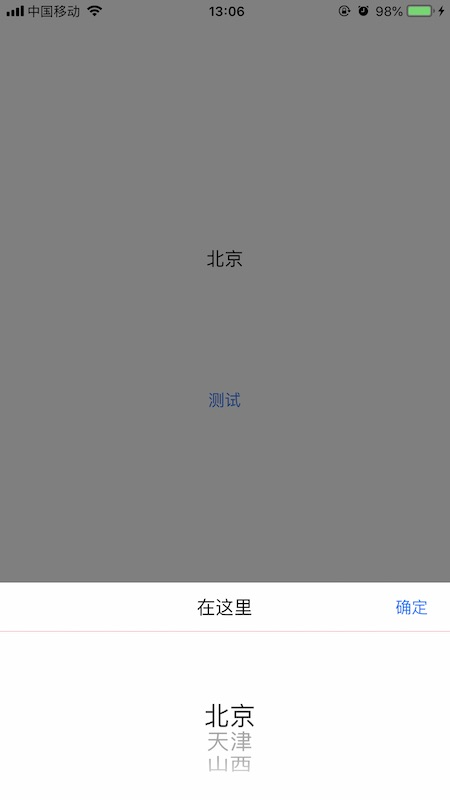
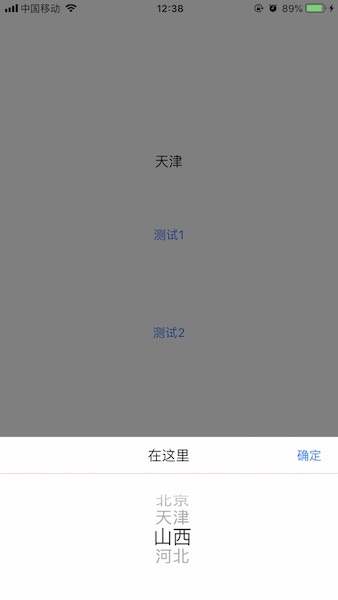
NBLPickerView支持非数组方式加载，数据量大且有规律时使用

diff --git a/NBLPickerView/Classes/NBLPickerView.m b/NBLPickerView/Classes/NBLPickerView.m
@@ -16,6 +16,9 @@
 @property (weak, nonatomic) IBOutlet UIPickerView *pickerView;
 
 @property (nonatomic, strong) NSArray<NSString *> *optionList;
+//
+@property (nonatomic, assign) NSUInteger optionCount;
+@property (nonatomic, strong) NSString *(^blockOptionTitle)(NSInteger row);
 @end
 
 @implementation NBLPickerView
@@ -55,23 +58,18 @@
 + (instancetype)showOptionList:(NSArray<NSString *> *)list
                   withIndexSel:(NSInteger)indexSel
 {
-    // 加载Bundle
-    NSBundle *bundle = [NSBundle bundleForClass:[self class]];
-    // 加载选择视图
-    NBLPickerView *pickerView = [bundle loadNibNamed:@"NBLPickerView.bundle/NBLPickerView" owner:nil options:nil][0];
+    NBLPickerView *pickerView = [NBLPickerView showWithIndexSel:indexSel];
     pickerView.optionList = list;
-    // 显示
-    [[NBLPickerView frontWindow] addSubview:pickerView];
-    pickerView.frame = CGRectMake(0, 0, pickerView.superview.frame.size.width, pickerView.superview.frame.size.height);
-    // 动画展现
-    pickerView.viewCover.alpha = 0;
-    pickerView.contentView.center = CGPointMake(pickerView.bounds.size.width/2, pickerView.bounds.size.height+pickerView.contentView.bounds.size.height/2);
-    [UIView animateWithDuration:0.3f animations:^{
-        pickerView.viewCover.alpha = 1;
-        pickerView.contentView.center = CGPointMake(pickerView.superview.bounds.size.width/2, pickerView.bounds.size.height-pickerView.contentView.bounds.size.height/2);
-    } completion:^(BOOL finished) {
-        [pickerView.pickerView selectRow:indexSel inComponent:0 animated:YES];
-    }];
+    return pickerView;
+}
+
++ (instancetype)showOptionList:(NSString *(^)(NSInteger row))blockOptionTitle
+               withOptionCount:(NSUInteger)optionCount
+                   andIndexSel:(NSInteger)indexSel
+{
+    NBLPickerView *pickerView = [NBLPickerView showWithIndexSel:indexSel];
+    pickerView.blockOptionTitle = blockOptionTitle;
+    pickerView.optionCount = optionCount;
     return pickerView;
 }
 
@@ -111,7 +109,10 @@
 // returns the # of rows in each component..
 - (NSInteger)pickerView:(UIPickerView *)pickerView numberOfRowsInComponent:(NSInteger)component
 {
-    return self.optionList.count;
+    if (self.optionList) {
+        return self.optionList.count;
+    }
+    return self.optionCount;
 }
 
 
@@ -119,11 +120,38 @@
 
 - (nullable NSString *)pickerView:(UIPickerView *)pickerView titleForRow:(NSInteger)row forComponent:(NSInteger)component
 {
-    return self.optionList[row];
+    if (self.blockOptionTitle) {
+        return self.blockOptionTitle(row);
+    }
+    else if (row < self.optionList.count) {
+        return self.optionList[row];
+    }
+    return @"";
 }
 
 
 #pragma mark - Private
+
++ (instancetype)showWithIndexSel:(NSInteger)indexSel
+{
+    // 加载Bundle
+    NSBundle *bundle = [NSBundle bundleForClass:[self class]];
+    // 加载选择视图
+    NBLPickerView *pickerView = [bundle loadNibNamed:@"NBLPickerView.bundle/NBLPickerView" owner:nil options:nil][0];
+    // 显示
+    [[NBLPickerView frontWindow] addSubview:pickerView];
+    pickerView.frame = CGRectMake(0, 0, pickerView.superview.frame.size.width, pickerView.superview.frame.size.height);
+    // 动画展现
+    pickerView.viewCover.alpha = 0;
+    pickerView.contentView.center = CGPointMake(pickerView.bounds.size.width/2, pickerView.bounds.size.height+pickerView.contentView.bounds.size.height/2);
+    [UIView animateWithDuration:0.3f animations:^{
+        pickerView.viewCover.alpha = 1;
+        pickerView.contentView.center = CGPointMake(pickerView.superview.bounds.size.width/2, pickerView.bounds.size.height-pickerView.contentView.bounds.size.height/2);
+    } completion:^(BOOL finished) {
+        [pickerView.pickerView selectRow:indexSel inComponent:0 animated:YES];
+    }];
+    return pickerView;
+}
 
 + (UIWindow *)frontWindow
 {

diff --git a/Example/NBLPickerView/NBLViewController.m b/Example/NBLPickerView/NBLViewController.m
@@ -27,9 +27,10 @@
     // Dispose of any resources that can be recreated.
 }
 
-- (IBAction)clickTest:(id)sender
+- (IBAction)clickTest1:(id)sender
 {
-    __weak NBLPickerView *pickerView = [NBLPickerView showOptionList:@[@"北京", @"天津", @"山西"] withIndexSel:0];
+    NSArray *optionList = @[@"北京", @"天津", @"山西", @"河北"];
+    NBLPickerView *pickerView = [NBLPickerView showOptionList:optionList withIndexSel:1];
     pickerView.constraintPickerViewHeight.constant = 200;
     pickerView.titleBackgroundColor = [UIColor whiteColor];
     pickerView.separatorColor = [UIColor redColor];
@@ -37,7 +38,22 @@
     
     __weak typeof(self) weakSelf = self;
     pickerView.blockSelectOption = ^(NSInteger index) {
-        weakSelf.labelOption.text = pickerView.optionList[index];
+        weakSelf.labelOption.text = optionList[index];
+    };
+}
+- (IBAction)clickTest2:(id)sender
+{
+    NBLPickerView *pickerView = [NBLPickerView showOptionList:^NSString * _Nonnull(NSInteger row) {
+        return [NSString stringWithFormat:@"%@年", @(1970+row)];
+    } withOptionCount:50 andIndexSel:10];
+    pickerView.constraintPickerViewHeight.constant = 200;
+    pickerView.titleBackgroundColor = [UIColor whiteColor];
+    pickerView.separatorColor = [UIColor blueColor];
+    pickerView.labelTitle.text = @"在这里";
+    
+    __weak typeof(self) weakSelf = self;
+    pickerView.blockSelectOption = ^(NSInteger index) {
+        weakSelf.labelOption.text = [NSString stringWithFormat:@"%@年", @(1970+index)];
     };
 }
 

diff --git a/NBLPickerView/Classes/NBLPickerView.h b/NBLPickerView/Classes/NBLPickerView.h
@@ -27,6 +27,10 @@ NS_ASSUME_NONNULL_BEGIN
 + (instancetype)showOptionList:(NSArray<NSString *> *)list
                   withIndexSel:(NSInteger)indexSel;
 
++ (instancetype)showOptionList:(NSString* (^)(NSInteger row))blockOptionTitle
+               withOptionCount:(NSUInteger)optionCount
+                   andIndexSel:(NSInteger)indexSel;
+
 @end
 
 NS_ASSUME_NONNULL_END

diff --git a/README.md b/README.md
@@ -20,10 +20,47 @@ it, simply add the following line to your Podfile:
 pod 'NBLPickerView'
 ```
 
-## 预览 Preview
+
+## 用法一
+```
+NSArray *optionList = @[@"北京", @"天津", @"山西", @"河北"];
+NBLPickerView *pickerView = [NBLPickerView showOptionList:optionList withIndexSel:1];
+pickerView.constraintPickerViewHeight.constant = 200;
+pickerView.titleBackgroundColor = [UIColor whiteColor];
+pickerView.separatorColor = [UIColor redColor];
+pickerView.labelTitle.text = @"在这里";
+    
+__weak typeof(self) weakSelf = self;
+pickerView.blockSelectOption = ^(NSInteger index) {
+    weakSelf.labelOption.text = optionList[index];
+};
+```
+
+### 预览 Preview
 
 ![NBLShareView_1](https://github.com/yjh4866/NBLPickerView/blob/master/screenshots/screenshots_1.jpg?raw=true)
+
+
+## 用法二
+```
+NBLPickerView *pickerView = [NBLPickerView showOptionList:^NSString * _Nonnull(NSInteger row) {
+        return [NSString stringWithFormat:@"%@年", @(1970+row)];
+    } withOptionCount:50 andIndexSel:10];
+pickerView.constraintPickerViewHeight.constant = 200;
+pickerView.titleBackgroundColor = [UIColor whiteColor];
+pickerView.separatorColor = [UIColor blueColor];
+pickerView.labelTitle.text = @"在这里";
+    
+__weak typeof(self) weakSelf = self;
+pickerView.blockSelectOption = ^(NSInteger index) {
+    weakSelf.labelOption.text = [NSString stringWithFormat:@"%@年", @(1970+index)];
+};
+```
+
+### 预览 Preview
+
 ![NBLShareView_2](https://github.com/yjh4866/NBLPickerView/blob/master/screenshots/screenshots_2.jpg?raw=true)
+
 
 ## Author
 
